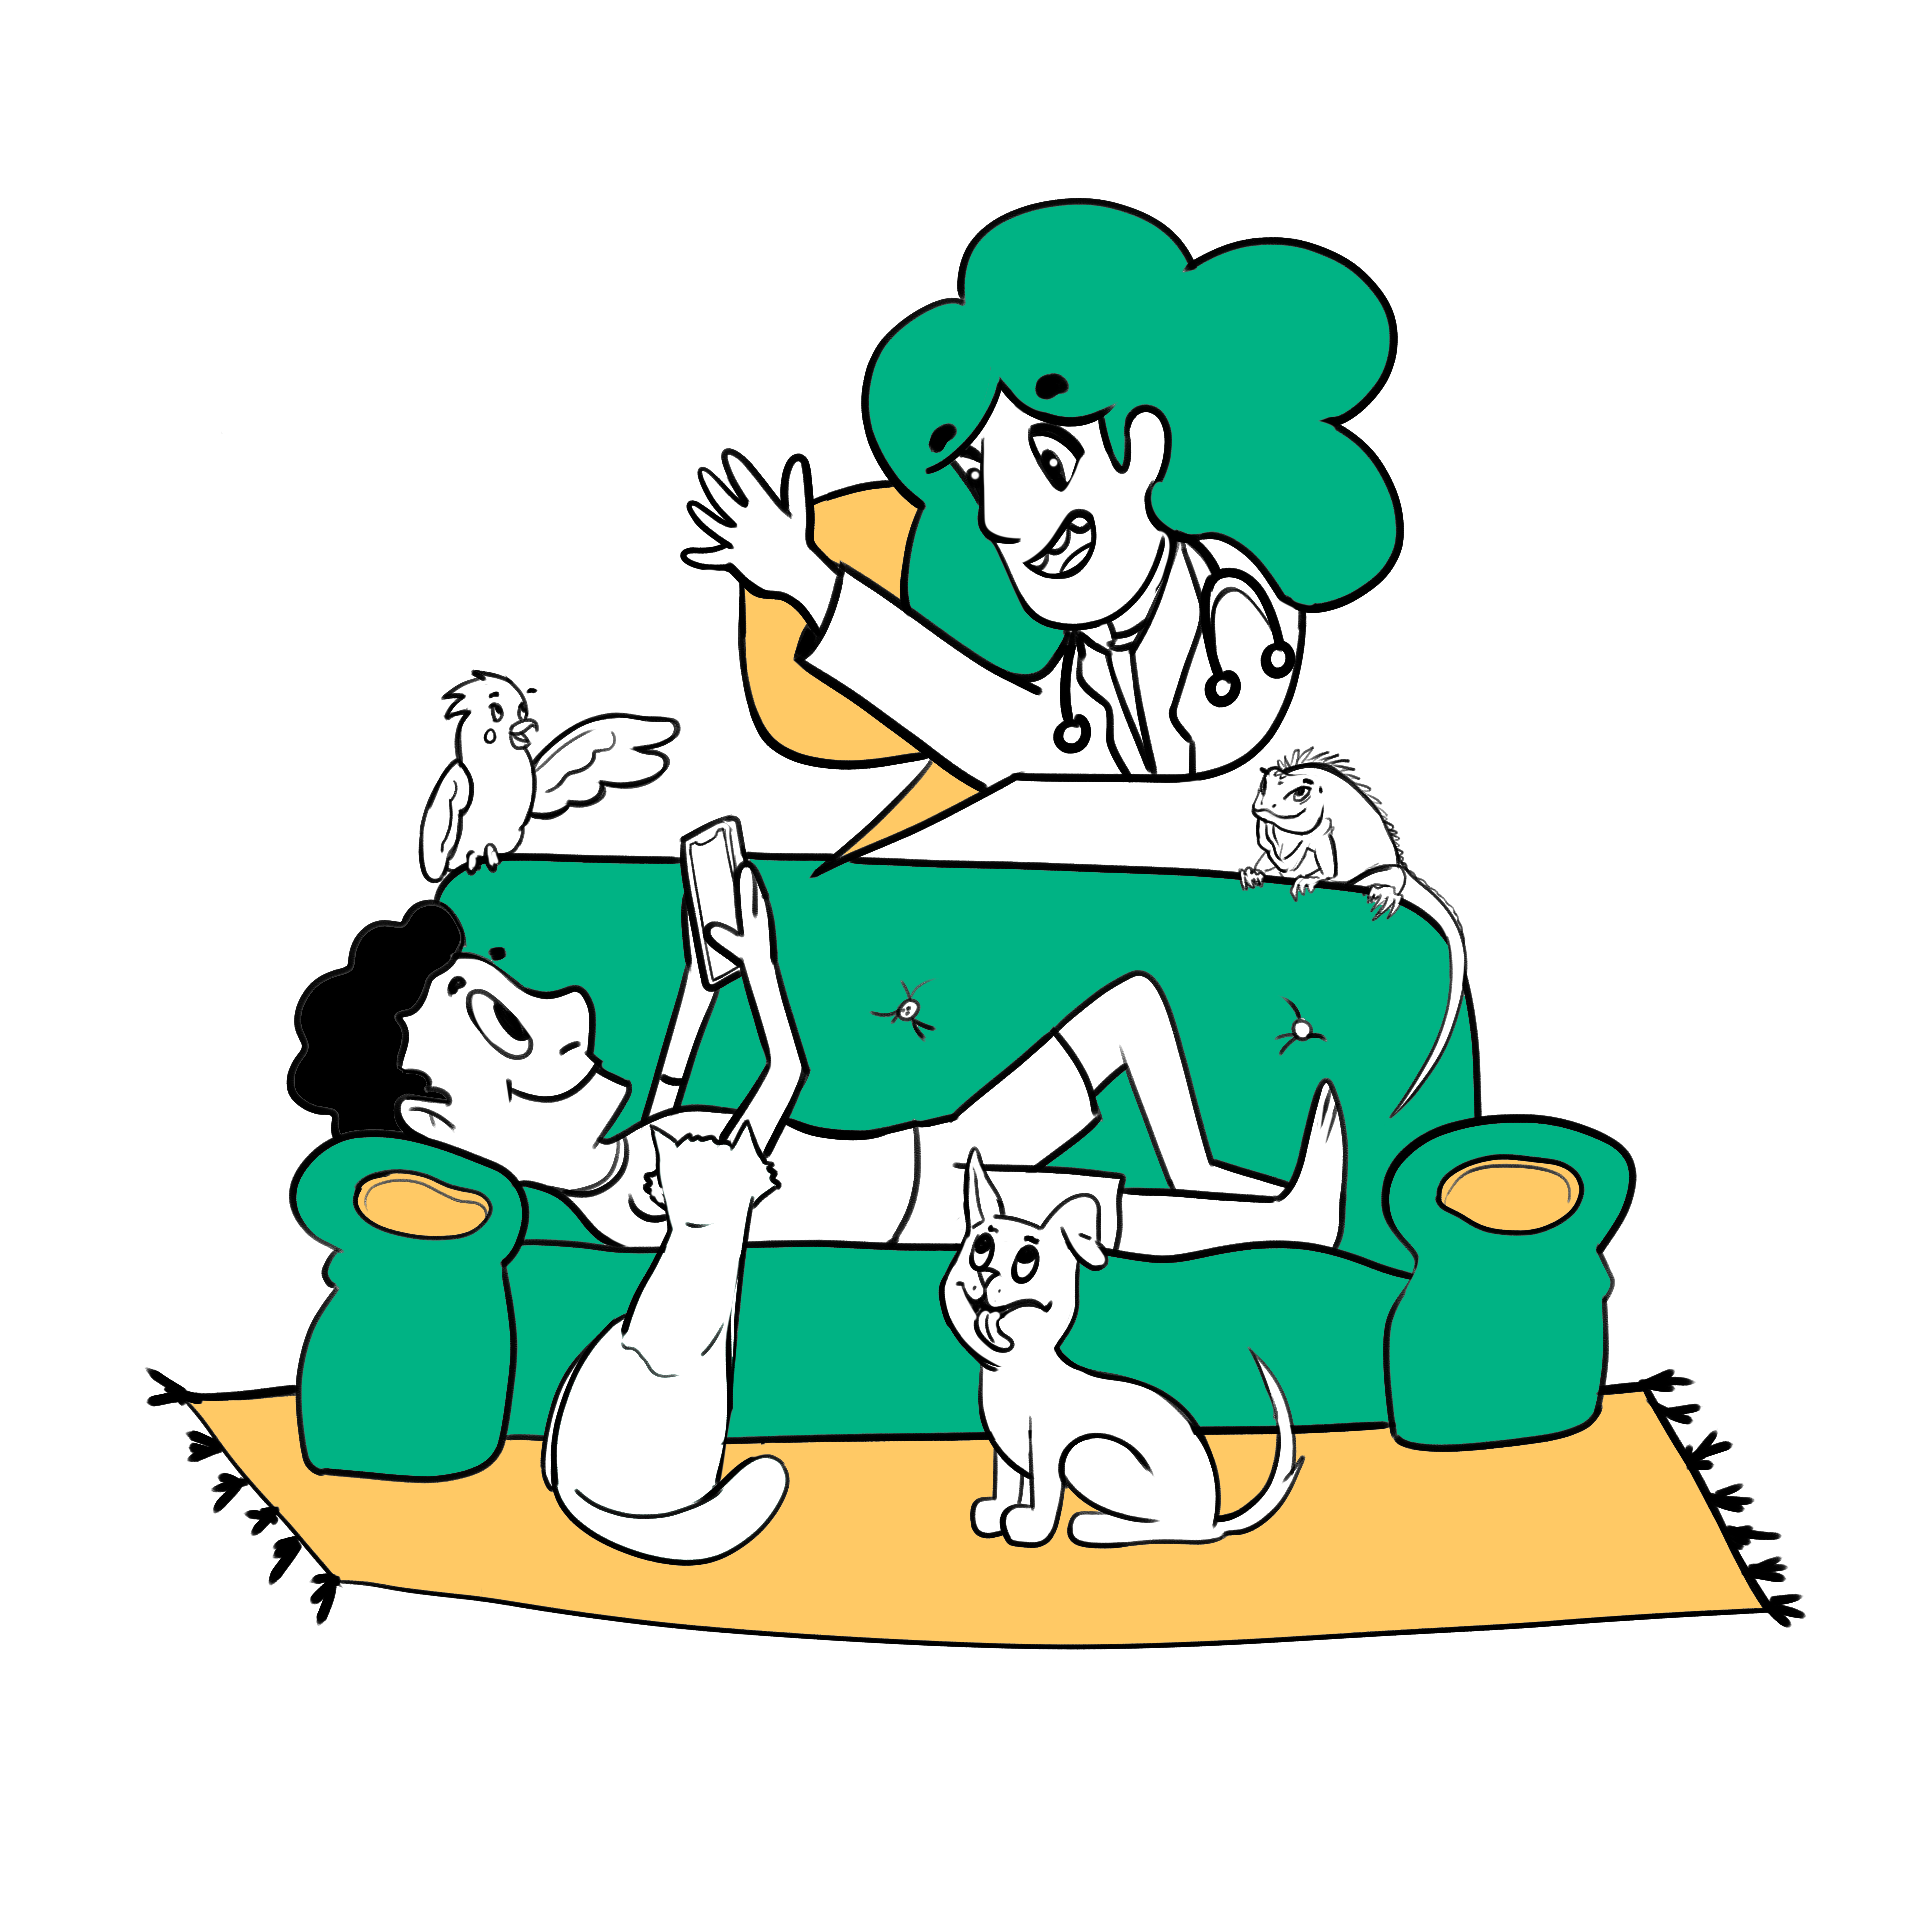
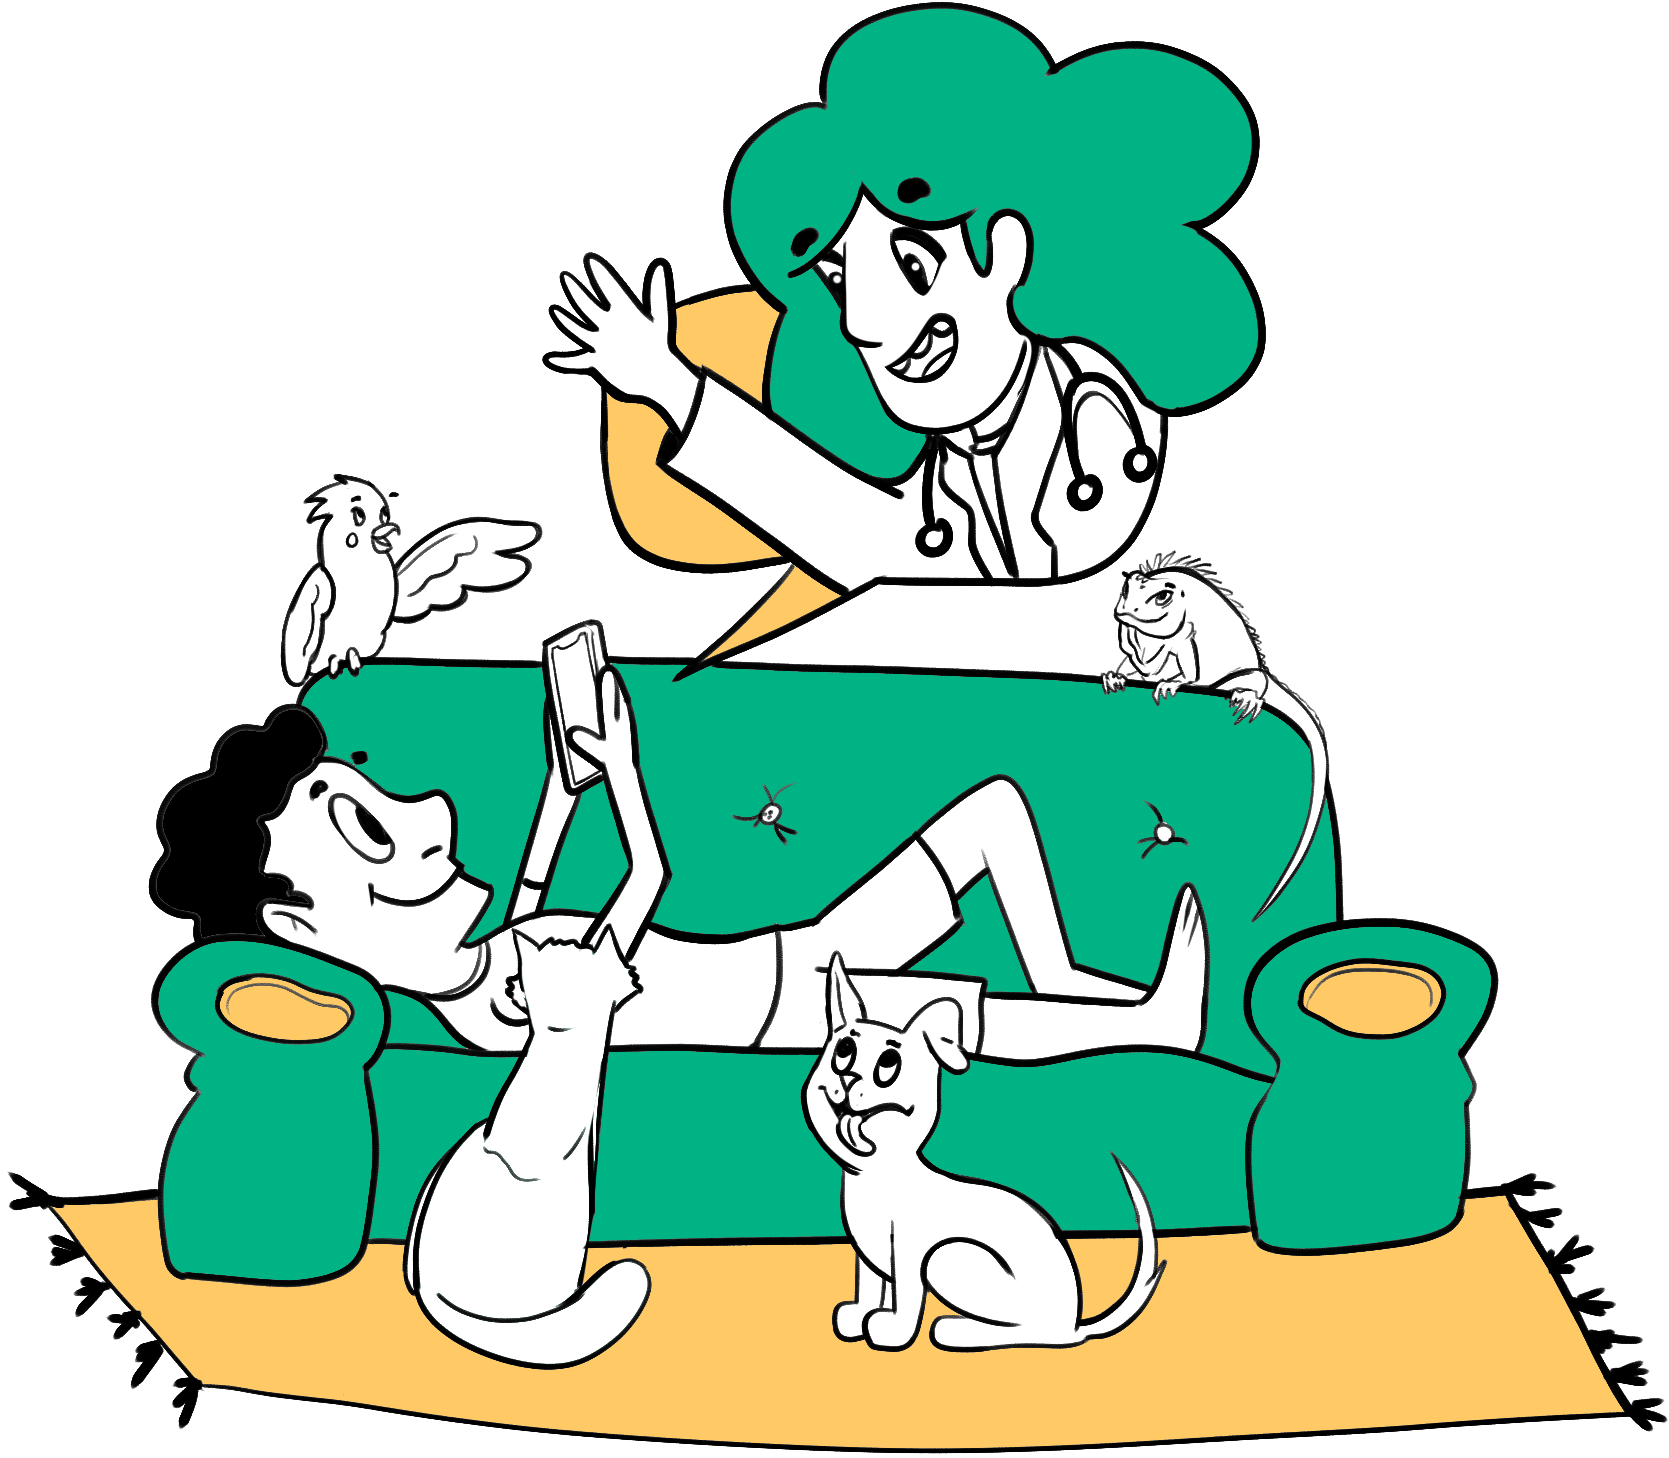
refactor: reoganizando elementos da section do roadmap

diff --git a/source/pages/Home/HomePage.tsx b/source/pages/Home/HomePage.tsx
@@ -80,7 +80,6 @@ const HomePage = () => {
             </section>
 
             <section className="bg-gray-200 pb-14 flex flex-col items-center justify-center">
-                
                 <h1 className = "font-sans pb-12 text-5xl font-bold text-stone-800 lg:text-5xl">Diferencial?</h1>
                 <div className="flex space-x-10">
                     <Zoom>
@@ -237,55 +236,6 @@ const HomePage = () => {
                 </div>
             </section>
 
-            <section className="pb-0 bg-white section hero-section">
-                <div className="grid grid-cols-1 p-4 web:grid-cols-2">
-                    <Zoom>
-                        <div className="col-span-1 pt-5 text-center mt-lg-5">
-                            <p className="p-2 font-sans text-lg font-semibold lg:text-2xl">
-                                {`Roadmap`}
-                            </p>
-                            <div className="flex justify-start w-3/6">
-                                <div className="m-2 shadow-md bg-secondary rounded-xl">
-                                    <p className="p-3 font-sans text-lg font-semibold text-white lg:text-xl">
-                                        {`Inteligência Artificial Abril de 2025`}
-                                    </p>
-                                </div>
-                            </div>
-                            <div className="flex justify-end w-4/6">
-                                <div className="m-2 shadow-md bg-secondary rounded-xl">
-                                    <p className="p-3 font-sans text-lg font-semibold text-white lg:text-xl">
-                                        {`VetMovel e Telemedicina Dezembro de 2024`}
-                                    </p>
-                                </div>
-                            </div>
-                            <div className="flex justify-end w-5/6">
-                                <div className="m-2 shadow-md bg-secondary rounded-xl">
-                                    <p className="p-3 font-sans text-lg font-semibold text-white lg:text-xl">
-                                        {`Secretaria Inteligente Agosto de 2024`}
-                                    </p>
-                                </div>
-                            </div>
-                            <div className="flex justify-end w-6/6">
-                                <div className="m-2 shadow-md bg-secondary rounded-xl">
-                                    <p className="p-3 font-sans text-lg font-semibold text-white lg:text-xl">
-                                        {`Consultas veterinárias Abril de 2024`}
-                                    </p>
-                                </div>
-                            </div>
-                        </div>
-                    </Zoom>
-                    <Slide left>
-                        <div className="col-span-1">
-                            <img
-                                src="/Sem título2.jpg"
-                                className="w-100"
-                                alt="Landing Page"
-                            />
-                        </div>
-                    </Slide>
-                </div>
-            </section>
-
             <section className="section bg-primary-500">
                 <div className="bg-overlay bg-overlay-pattern" />
                 <div className="grid grid-cols-1 p-4 mt-5 web:grid-cols-2">
@@ -328,6 +278,53 @@ const HomePage = () => {
                                     </p>
                                 </div>
                             </div>
+                        </div>
+                    </Slide>
+                </div>
+            </section>
+
+            <section className=" pb-12 pt-4 bg-white ">
+                <h1 className = "justify-center pb-8 flex font-sans text-5xl font-bold text-primary-500 lg:text-5xl">Verifique nosso Roadmap</h1>
+                <div className="grid grid-cols-1 py-4 pl-16 pr-12 web:grid-cols-2">
+                    <Zoom>
+                        <div className="col-span-1 text-center space-y-5 mt-lg-5">
+                            <div className="flex justify-start w-4/6">
+                                <div className="m-2 shadow-md bg-secondary rounded-xl">
+                                    <p className="p-3 font-sans text-lg font-semibold text-white lg:text-xl">
+                                        {`Inteligência Artificial Abril de 2025`}
+                                    </p>
+                                </div>
+                            </div>
+                            <div className="flex justify-start w-4/6">
+                                <div className="m-2 shadow-md bg-secondary rounded-xl">
+                                    <p className="p-3 font-sans text-lg font-semibold text-white lg:text-xl">
+                                        {`VetMovel e Telemedicina Dezembro de 2024`}
+                                    </p>
+                                </div>
+                            </div>
+                            <div className="flex justify-start w-5/6">
+                                <div className="m-2 shadow-md bg-secondary rounded-xl">
+                                    <p className="p-3 font-sans text-lg font-semibold text-white lg:text-xl">
+                                        {`Secretaria Inteligente Agosto de 2024`}
+                                    </p>
+                                </div>
+                            </div>
+                            <div className="flex justify-start w-6/6">
+                                <div className="m-2 shadow-md bg-secondary rounded-xl">
+                                    <p className="p-3 font-sans text-lg font-semibold text-white lg:text-xl">
+                                        {`Consultas veterinárias Abril de 2024`}
+                                    </p>
+                                </div>
+                            </div>
+                        </div>
+                    </Zoom>
+                    <Slide left>
+                        <div className="col-span-1 justify-center flex">
+                            <img
+                                src="/home/ilustracao1.png"
+                                className="w-10/12"
+                                alt="Landing Page"
+                            />
                         </div>
                     </Slide>
                 </div>
